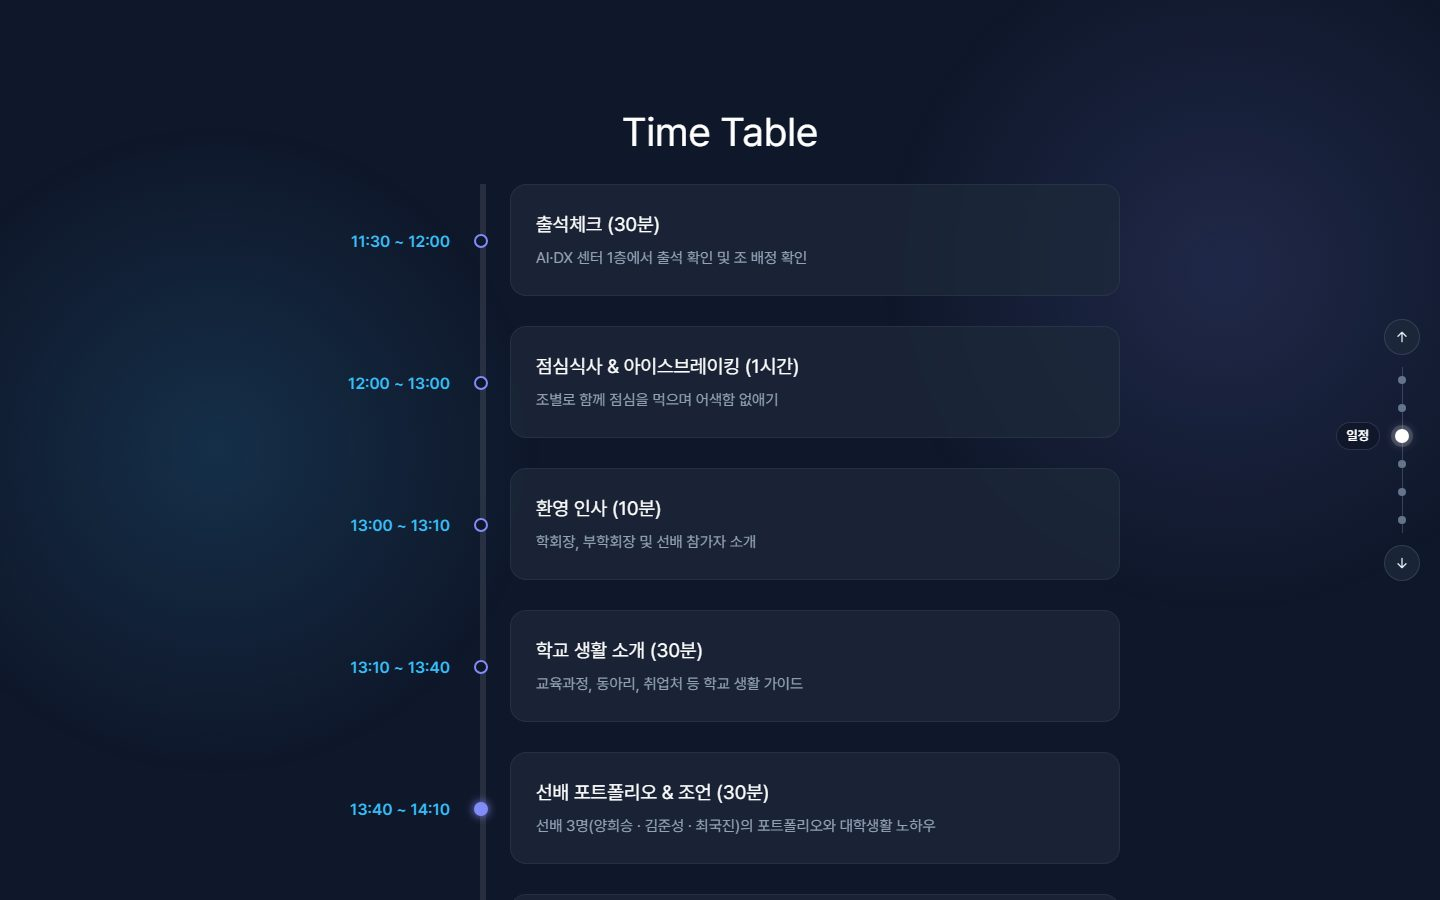
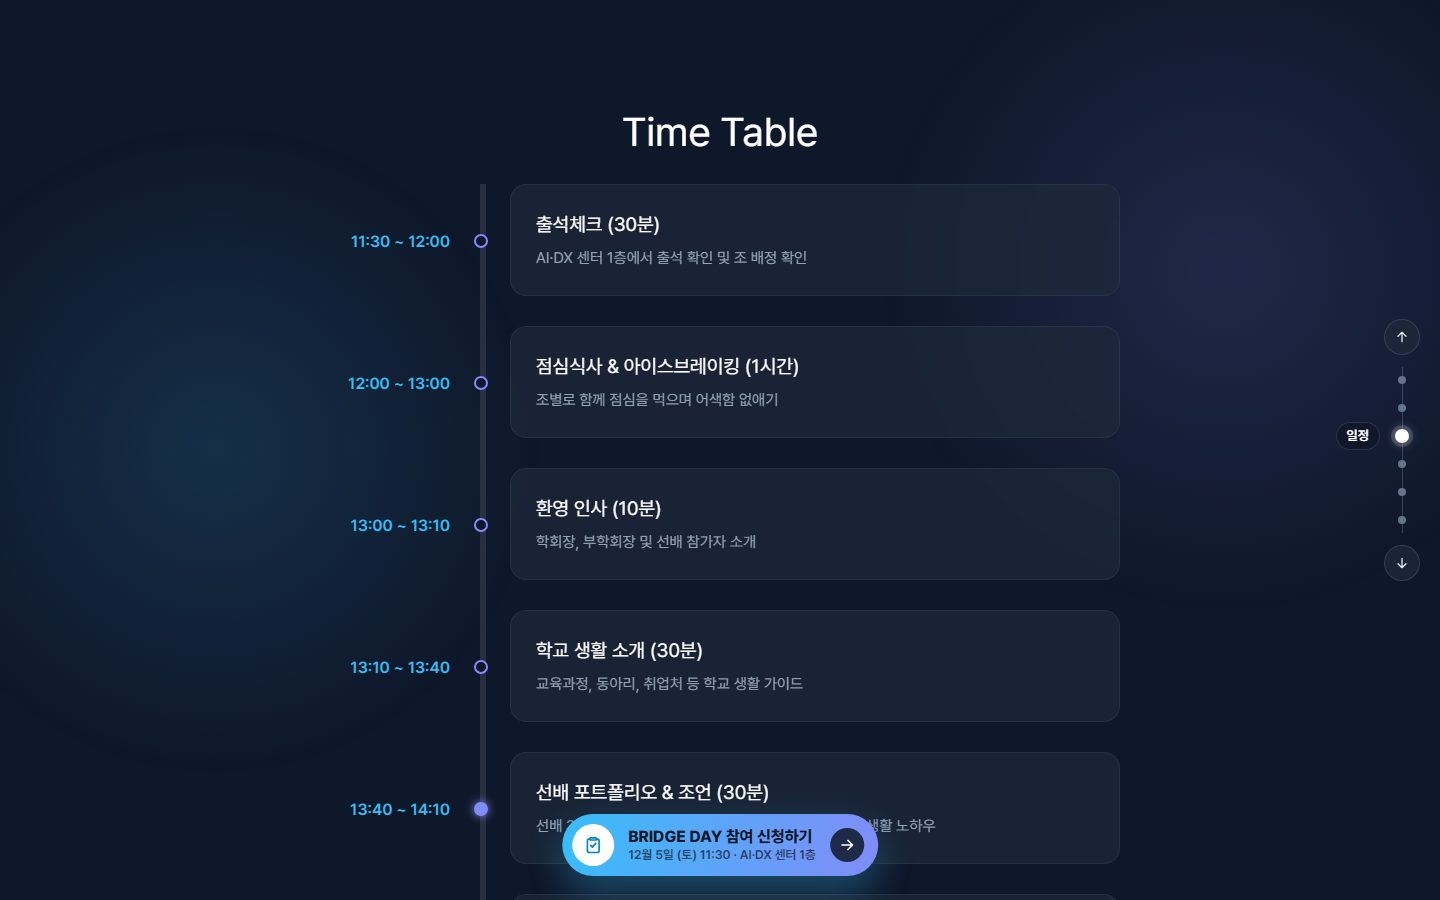
feat: 화면 아래 따라다니는 참여 신청 버튼 추가
- 첫 화면을 지나면 화면 아래에 '참여 신청하기' 버튼이 떠서 따라다님 (날짜 · 시간 · 장소 함께 표시)
- 첫 화면 · 푸터의 신청 버튼이 보일 때는 겹치지 않게 숨김
- 첫 화면 · 푸터 신청 버튼에 아이콘 추가

Changed region(s): [[0.375, 0.9022, 0.625, 0.9956]]

diff --git a/src/index.css b/src/index.css
@@ -714,6 +714,9 @@ footer .sub-footer {
 }
 
 .hero-cta a {
+  display: inline-flex;
+  align-items: center;
+  gap: 8px;
   padding: 12px 28px;
   border-radius: 50px;
   font-weight: 600;
@@ -1024,7 +1027,9 @@ footer .sub-footer {
 
 /* ===== Footer: 참여 신청 링크 ===== */
 .footer-apply {
-  display: inline-block;
+  display: inline-flex;
+  align-items: center;
+  gap: 8px;
   margin: 4px 0 16px;
   padding: 10px 24px;
   border-radius: 50px;
@@ -1036,4 +1041,101 @@ footer .sub-footer {
 
 .footer-apply:hover {
   background: #7dd3fc;
+}
+
+/* ===== 화면 아래 떠 있는 참여 신청 버튼 ===== */
+.apply-bar {
+  position: fixed;
+  left: 50%;
+  bottom: calc(24px + env(safe-area-inset-bottom));
+  z-index: 1001;
+  display: flex;
+  align-items: center;
+  gap: 14px;
+  width: max-content;
+  max-width: calc(100% - 32px);
+  padding: 10px 14px 10px 10px;
+  border-radius: 999px;
+  color: #0f172a;
+  background: linear-gradient(100deg, var(--primary-color), var(--secondary-color));
+  box-shadow:
+    0 14px 34px rgba(56, 189, 248, 0.35),
+    0 4px 12px rgba(0, 0, 0, 0.35);
+  opacity: 0;
+  pointer-events: none;
+  transform: translate(-50%, 140%);
+  transition:
+    transform 0.4s cubic-bezier(0.22, 1, 0.36, 1),
+    opacity 0.3s,
+    box-shadow 0.2s;
+}
+
+.apply-bar.is-visible {
+  opacity: 1;
+  pointer-events: auto;
+  transform: translate(-50%, 0);
+}
+
+.apply-bar.is-visible:hover {
+  transform: translate(-50%, -3px);
+  box-shadow:
+    0 18px 40px rgba(56, 189, 248, 0.45),
+    0 6px 14px rgba(0, 0, 0, 0.35);
+}
+
+.apply-bar__icon {
+  display: flex;
+  align-items: center;
+  justify-content: center;
+  flex-shrink: 0;
+  width: 42px;
+  height: 42px;
+  border-radius: 50%;
+  color: #0284c7;
+  background: #fff;
+}
+
+.apply-bar__text {
+  display: flex;
+  flex-direction: column;
+  line-height: 1.25;
+}
+
+.apply-bar__text strong {
+  font-size: 1rem;
+  font-weight: 800;
+}
+
+.apply-bar__text small {
+  font-size: 0.78rem;
+  font-weight: 600;
+  color: rgba(15, 23, 42, 0.72);
+}
+
+.apply-bar__arrow {
+  display: flex;
+  align-items: center;
+  justify-content: center;
+  flex-shrink: 0;
+  width: 34px;
+  height: 34px;
+  border-radius: 50%;
+  color: #fff;
+  background: rgba(15, 23, 42, 0.85);
+}
+
+/* 휴대폰: 화면 폭에 맞춘 넓은 버튼, 마지막 섹션이 가리지 않게 아래 여백 */
+@media (max-width: 640px) {
+  .apply-bar {
+    bottom: calc(12px + env(safe-area-inset-bottom));
+    width: calc(100% - 32px);
+  }
+
+  .apply-bar__text {
+    flex: 1;
+  }
+
+  #directions {
+    padding-bottom: 120px;
+  }
 }

diff --git a/src/components/ApplyBar.tsx b/src/components/ApplyBar.tsx
@@ -1,0 +1,69 @@
+import { useEffect, useState } from "react";
+import { event } from "../data";
+import { formatDate } from "../lib/format";
+
+// 신청서 아이콘 (선 아이콘)
+export const ApplyIcon = ({ size = 20 }: { size?: number }) => (
+  <svg width={size} height={size} viewBox="0 0 24 24" fill="none" stroke="currentColor" strokeWidth="2" strokeLinecap="round" strokeLinejoin="round" aria-hidden="true">
+    <path d="M9 3.5h6a1 1 0 0 1 1 1V6H8V4.5a1 1 0 0 1 1-1z" />
+    <path d="M8 5H6.5A1.5 1.5 0 0 0 5 6.5v13A1.5 1.5 0 0 0 6.5 21h11a1.5 1.5 0 0 0 1.5-1.5v-13A1.5 1.5 0 0 0 17.5 5H16" />
+    <path d="M9 12.5l2 2 4-4.5" />
+  </svg>
+);
+
+const Arrow = () => (
+  <svg width="18" height="18" viewBox="0 0 24 24" fill="none" stroke="currentColor" strokeWidth="2.2" strokeLinecap="round" strokeLinejoin="round" aria-hidden="true">
+    <path d="M5 12h14M13 6l6 6-6 6" />
+  </svg>
+);
+
+/**
+ * 화면 아래에 떠 있는 참여 신청 버튼
+ * - 첫 화면의 신청 버튼이나 맨 아래 푸터의 신청 버튼이 보이는 동안에는 숨겨요 (같은 버튼이 이미 보이니까).
+ */
+export const ApplyBar = () => {
+  const [show, setShow] = useState(false);
+
+  useEffect(() => {
+    const heroCta = document.querySelector(".hero-cta");
+    const footer = document.querySelector(".footer-apply");
+    if (!heroCta || !footer) return;
+    const visible = new Map<Element, boolean>([
+      [heroCta, true],
+      [footer, false],
+    ]);
+    const observer = new IntersectionObserver((entries) => {
+      for (const entry of entries) visible.set(entry.target, entry.isIntersecting);
+      setShow(!visible.get(heroCta) && !visible.get(footer));
+    });
+    observer.observe(heroCta);
+    observer.observe(footer);
+    return () => observer.disconnect();
+  }, []);
+
+  const date = formatDate(event.date);
+
+  return (
+    <a
+      className={`apply-bar${show ? " is-visible" : ""}`}
+      href={event.registrationUrl}
+      target="_blank"
+      rel="noopener noreferrer"
+      aria-hidden={!show}
+      tabIndex={show ? 0 : -1}
+    >
+      <span className="apply-bar__icon">
+        <ApplyIcon />
+      </span>
+      <span className="apply-bar__text">
+        <strong>BRIDGE DAY 참여 신청하기</strong>
+        <small>
+          {date ? `${date} ${event.startTime}` : event.startTime} · {event.venue}
+        </small>
+      </span>
+      <span className="apply-bar__arrow">
+        <Arrow />
+      </span>
+    </a>
+  );
+};

diff --git a/src/components/Hero.tsx b/src/components/Hero.tsx
@@ -1,4 +1,5 @@
 import { event } from "../data";
+import { ApplyIcon } from "./ApplyBar";
 import { formatDate } from "../lib/format";
 
 // 행사 기본 정보를 렌더링할 데이터 배열 (아이콘 + 텍스트)
@@ -41,6 +42,7 @@ export const Hero = () => (
       {/* 바로가기 */}
       <div className="hero-cta">
         <a className="hero-cta__primary" href={event.registrationUrl} target="_blank" rel="noopener noreferrer">
+          <ApplyIcon size={18} />
           참여 신청하기
         </a>
         <a className="hero-cta__secondary" href="#directions">

diff --git a/src/pages/HomePage.tsx b/src/pages/HomePage.tsx
@@ -1,4 +1,5 @@
 import { AboutSection } from "../components/AboutSection";
+import { ApplyBar } from "../components/ApplyBar";
 import { ClubsSection } from "../components/ClubsSection";
 import { DirectionsSection } from "../components/DirectionsSection";
 import { Footer } from "../components/Footer";
@@ -24,6 +25,7 @@ export const HomePage = () => {
         <DirectionsSection />
       </main>
       <Footer />
+      <ApplyBar />
     </>
   );
 };

diff --git a/src/components/Footer.tsx b/src/components/Footer.tsx
@@ -1,10 +1,12 @@
 import { event } from "../data";
+import { ApplyIcon } from "./ApplyBar";
 
 export const Footer = () => (
   <footer>
     <div className="container">
       <p>{event.year} BRIDGE DAY</p>
       <a className="footer-apply" href={event.registrationUrl} target="_blank" rel="noopener noreferrer">
+        <ApplyIcon size={18} />
         참여 신청하기 →
       </a>
       <p className="sub-footer">
